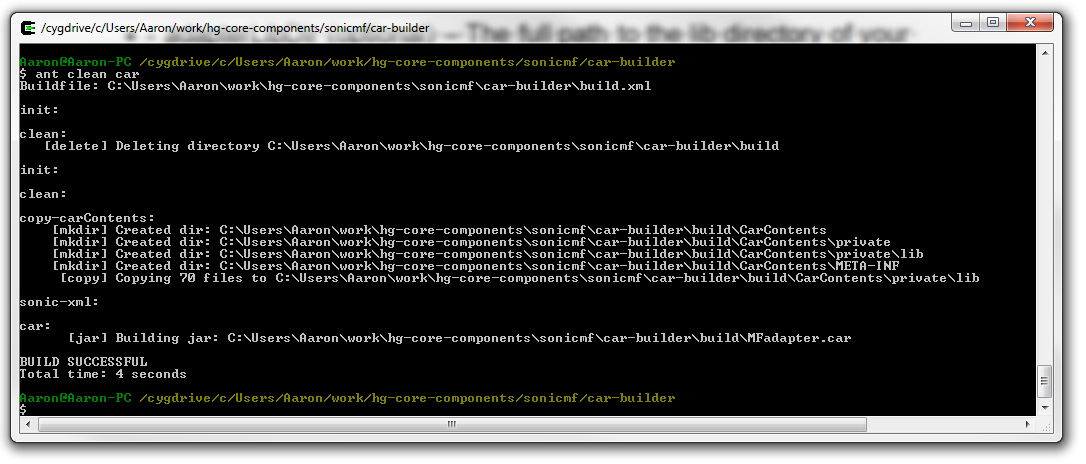
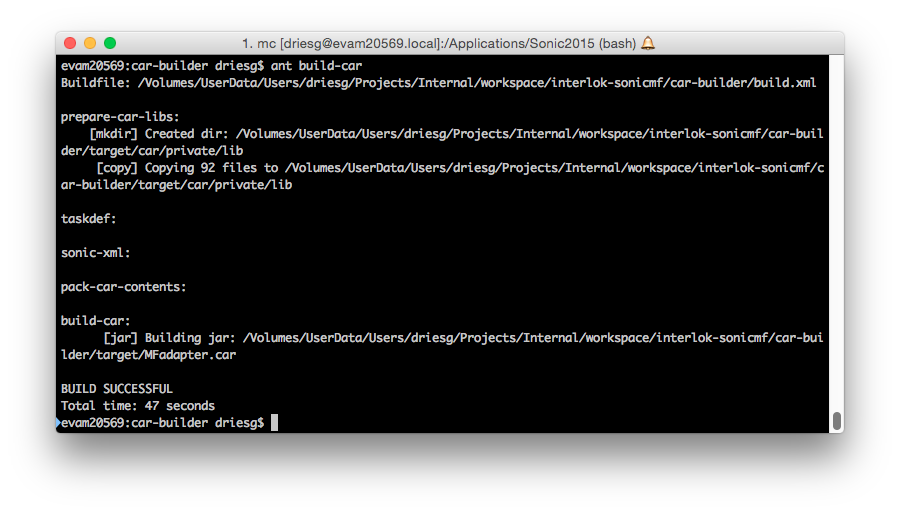
INTERLOK-1476 Update documentation to match new CAR builder. Add container integrated logging and deployment parameter variable substitution.

diff --git a/pages/advanced/advanced-sonic-container.md b/pages/advanced/advanced-sonic-container.md
@@ -19,35 +19,47 @@ SonicMQ provides a java container for which you may run your own programs. Adapt
 
 ## Creating the CAR file ##
 
-We have provided a utility program called the "CAR builder" to create a CAR file from your Interlok version 3.0 installation. Please contact Adaptris support for a copy of this tool.
+We have provided a utility program called the "CAR builder" to create a CAR file from your Interlok version 3.x installation. Please contact Adaptris support for a copy of this tool.
 
 ### Pre-requisites for the CAR builder ###
 
-The Adaptris CAR builder requires apache-ant version 1.8.3+ and an installation of Interlok V3.
-
-The following jar files should also be added to your Interlok installations "lib" directory;
-
-- adp-sonicmf.jar (In the distribution)
-- mfcontext.jar (Found in your SonicMQ installation)
-- mfcommon.jar (Found in your SonicMQ installation, may not exist for later versions of SonicMQ, in which case ignore this file)
+The Adaptris CAR builder requires apache-ant version 1.8.3+ and optionally an installation of Interlok 3.x.
 
 ### Configuring the CAR builder ###
 
 Inside the directory containing the CAR builder tool, take a copy of the build.properties.template file and save it as build.properties.
 
-This contains the minimum property declarations that you'll need to execute the tools script. Generally you'll just need to modify the adapter.home property to match your Interlok installation directory; however other property declarations are possible.
+This contains the minimum property declarations that you'll need to execute the tools script. The available properties are:
 
-- adapter.home (The full path to the root of your Interlok installation)
-- adapterLibDir (Optional.  The full path to your Interlok installations 'lib' directory).
-- adapterCarFilename (Optional.  The file name of the resulting CAR file, defaults to MFadapter.car).
+| Name            | Default value       | Description                         |
+| --------------- | ------------------- | ----------------------------------- |
+| interlok.version | 3.6.0               | The version of Interlok to download |
+| interlok.lib     | target/interlok/lib | Where to find Interlok libraries. If downloading, libraries will be placed here |
+| extra.lib        | extra-lib           | Where to find extra jar files. Place adp-sonicmf.jar here and any other libraries you want to include in the CAR file that are not automatically downloaded (IBM MQ jars, for example) |
+| car.name         | MFadapter.car       | The name of the CAR file. Useful if you need to have multiple CARs with different libraries included in the same Sonic domain |
+| car.pack200      | true                | Whether to apply pack200 compression to reduce CAR file size. |
+
+If you already have an Interlok installation you want to package, set the `interlok.lib` property to the `lib` directory in that installation. If you don't have Interlok yet there is no need to change anything other than `interlok.version` to download the version you want.
 
 ### Running the CAR builder tool ###
 
-Open a new command line window and navigate to the root directory of the CAR builder tool.
+Open a new command line window and navigate to the root directory of the CAR builder tool. Run `ant -projecthelp` to get an overview of the available commands:
 
-Assuming apache-ant is configured on your system path, you can simply execute "ant".
+    build-car          Build the CAR file
+    clean-all          Clean the target directory
+    clean-car          Clean the car build directory
+    download-interlok  Download Interlok libraries and dependencies
+    Default target: download-and-build
 
-Once the CAR builder has completed you will find a new CAR file in the 'build' directory of the CAR builder installation.
+In order to download interlok and build the CAR file, run:
+
+    $ ant
+    
+or if you only want to build the car file (because you already have an Interlok installation to package):
+
+    $ ant build-car
+
+Once the CAR builder has completed you will find a new CAR file in the 'target' directory of the CAR builder installation.
 
 ![CAR Builder on the command line](./images/sonic-container/sonicmq-container-Figure1.png)
 
@@ -95,15 +107,19 @@ The following configuration should be used for the container configuration page;
 
 ![component properties 2](./images/sonic-container/sonicmq-container-Figure6.png)
 
-You will be able to add your newly created generic component to any standard Sonic container. The recommendation is that you create a new container for this component. There are a number of deployment parameters that can be used to control the runtime behaviour of Interlok running inside a container shown below;
+You will be able to add your newly created generic component to any standard Sonic container. The recommendation is that you create a new container for this component. There are a number of deployment parameters that can be used to control the runtime behaviour of Interlok running inside a container shown below:
 
-![deployment parameters](./images/sonic-container/sonicmq-container-Figure7.png)
+| Deployment parameter     | Description | Since |
+| ------------------------ | ----------- | ----- |
+| bootstrap.properties.url | The URL (in SonicFS) of your bootstrap.properties file | 3.0.1 |
+| jmxserviceurl            | The JMX Service URL | |
+| adapterxmlurl            | The URL for adapter.xml | |
+| licenseurl               | Where to find the license.properties file |
+| log4jurl                 | The URL for your log4j configuration file |
+| managementComponents     | The management components to load |
+| preProcessors            | Configuration preprocessors to apply |
 
-Since version 3.0.1 you have the option of specifying the full Interlok parameters into the deployment parameters of the container shown above, or you can simply have a single deployment parameter to specify your bootstrap.properties;
-
-```
-	bootstrap.properties.url == sonicfs:////System/Interlok/bootstrap.properties
-```
+You can specify either `bootstrap.properties.url` (since version 3.0.1) or you can specify the individual settings in their respective deployment properties. Please see the documentation about bootstrap.properties for the meanings of these settings.
 
 Should you choose to upload your bootstrap.properties into the sonicfs, you may also want to make sure the file resources within the bootstrap.properties also reference files in sonicfs.
 
@@ -116,10 +132,41 @@ Next, you need to make sure the SonicMQ container starts Interlok with the corre
 Finally, to configure the logging you will need to add the following switch (modify the path to your log4j configuration as needed) to the Java VM options in the container properties;
 
 ```
-	-Dlog4j.configurationFile=sonicfs:///System/Interlok/log4j2.xml
+  -Dlog4j.configurationFile=sonicfs:///System/Interlok/log4j2.xml
 ```
 
 ![JVM Options](./images/sonic-container/sonicmq-container-Figure9.png)
+
+## Container integrated logging ##
+
+By default, Interlok will log to its own log4j context which is separately configured from the Sonic container log. If you want to integrate Interlok logging into the Sonic container logs (if you use Sonic centralized logging, for example), use the following configuration in `log4j2.xml`:
+
+```
+<Configuration>
+  <Appenders>
+    ...
+    <ContainerLog name="ContainerLog">
+      <PatternLayout>
+        <Pattern>[%t] [%c{1}] %m</Pattern>
+      </PatternLayout>
+    </ContainerLog>
+    ...
+  </Appenders>
+  ...
+</Configuration>
+```
+
+## Deployment parameters variable substitution ##
+
+To use Sonic deployment parameters for variable replacements in your adapter.xml, add the following configuration to your `bootstrap.properties`:
+
+```
+preProcessors=xinclude:variableSubstitution:systemProperties:environmentVariables:deploymentParameters
+variable-substitution.properties.url=sonicfs:///Interlok/Adapters/environment.properties
+deployment-parameters.impl=STRICT_WITH_LOGGING
+```
+
+This will allow variables in your adapter.xml to be resolved from xinclude, a file called environment.properties, Java system properties, environment variables and Sonic deployment parameters.
 
 ## Native Library support ##
 
